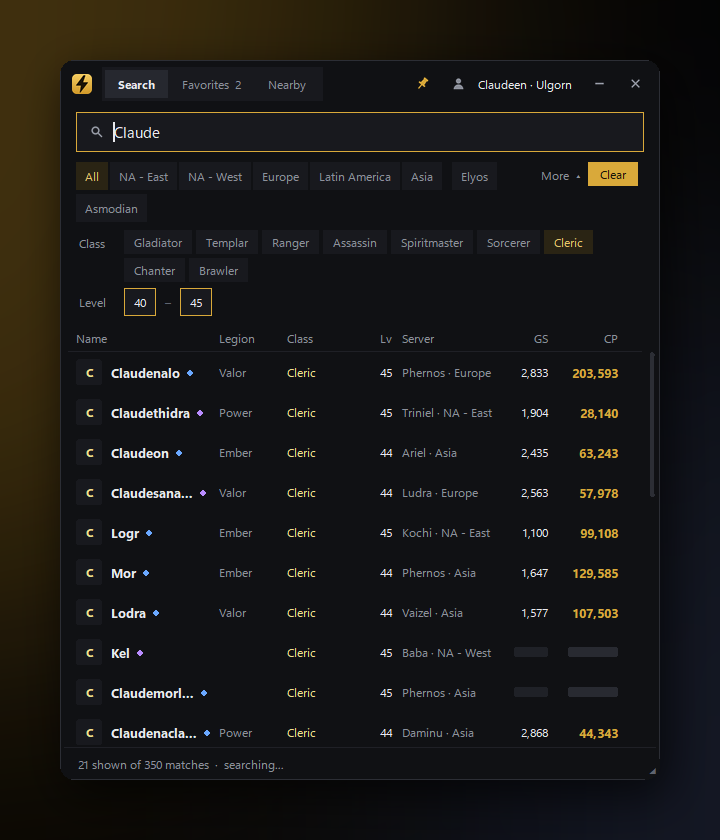
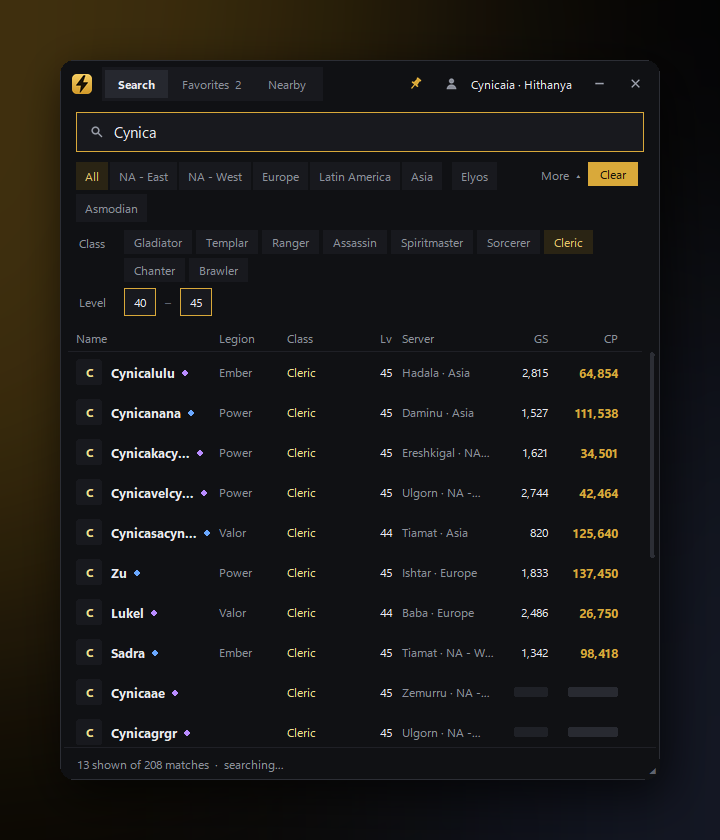
Showcase screenshots: the real character is 'you'
Claude-Session: https://claude.ai/code/session_01B6eNeFKq1YW3MgpR4axX3y

diff --git a/shugotracker/search_ui.py b/shugotracker/search_ui.py
@@ -2346,7 +2346,8 @@ class SearchWindow:
             (7000, lambda: self._grab(f"{base}.png")),
             (7200, lambda: self._view and self.toggle_favorite(self._view[0])),
             (7250, lambda: len(self._view) > 2 and self.toggle_favorite(self._view[2])),   # 2 to show the grips
-            (7270, lambda: len(self._view) > 1 and self.set_my_character(self._view[1])),
+            (7270, lambda: len(self._view) > 1 and self.set_my_character(       # --showcase: the real one is you
+                self._view[0] if getattr(self.api.session, "real", None) else self._view[1])),
             (7290, lambda: self._me_menu()),
             (7340, lambda: self._grab(f"{base}-me-menu.png")),
             (7360, lambda: self.me_menu.unpost()),
